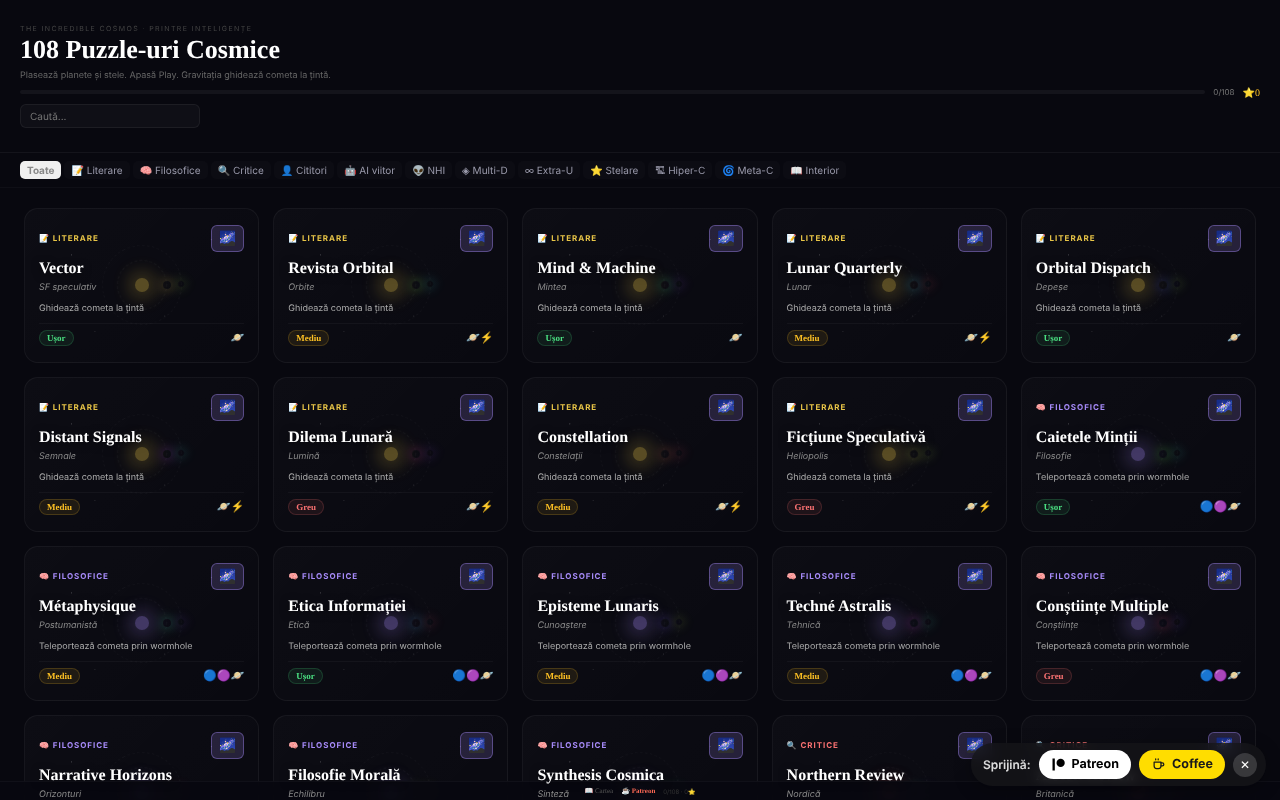
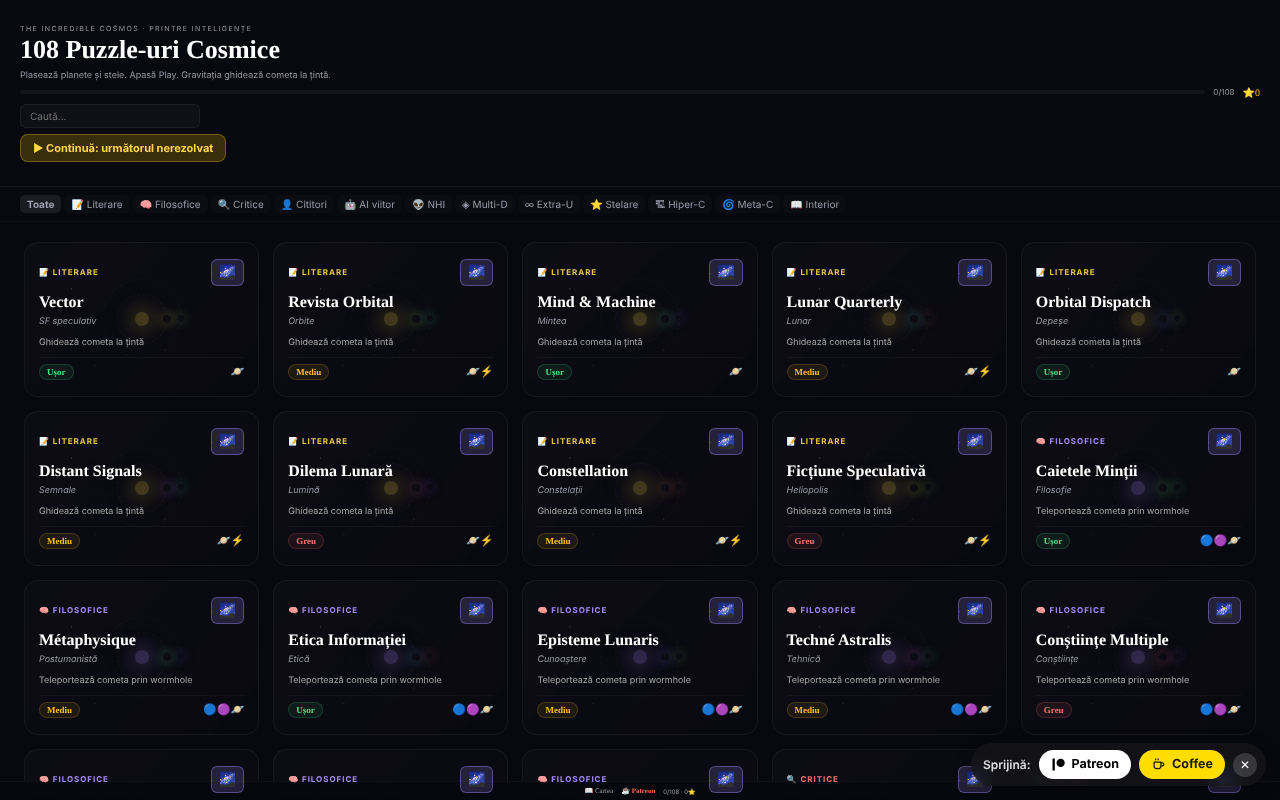
Runda 6 (11 octombrie 2026): reparații și îmbunătățiri
Claude-Session: https://claude.ai/code/session_01D2sCEb3hy3nutYexhUfQFs

diff --git a/index.html b/index.html
@@ -26,7 +26,7 @@
 /* Accesibilitate: inel de focus vizibil pentru navigare la tastatură. */
 :focus-visible{outline:2px solid #4a90d9;outline-offset:2px;border-radius:2px}
 </style>
-  <meta http-equiv="Content-Security-Policy" content="default-src 'self'; img-src 'self' data: blob:; style-src 'self' 'unsafe-inline'; font-src 'self' data:; media-src 'self' blob: data:; object-src 'none'; base-uri 'self'; form-action 'self'; worker-src 'self' blob:; script-src 'self' 'unsafe-inline' blob:; connect-src 'self'"><meta name="viewport" content="width=device-width,initial-scale=1"><title>The Incredible Cosmos</title><style>
+  <meta http-equiv="Content-Security-Policy" content="default-src 'self'; img-src 'self' data: blob:; style-src 'self' 'unsafe-inline'; font-src 'self' data:; media-src 'self' blob: data:; object-src 'none'; base-uri 'self'; form-action 'self'; worker-src 'self' blob:; script-src 'self' blob: 'sha256-ZOFLc0lAd79qelofwhNpkbrKvSsmJ8USXrQ/6auw2Po=' 'sha256-Q6M4enlkWNnw/gYyNhvQxfOCLzyhJkDqXTeBf3BySWw=' 'sha256-JNIyfYS8bOwUCGrqmslz9ykJlfjobv786OrrxMbOKgc=' 'sha256-TKvPfhZZ1qjsnftxDHkKW4lDyX5nY6e+GXPewp+Wo2s=' 'sha256-0OdRBjTvlRLcoHiFRaEKDmihFICKieERUl43/ALeH+A='; connect-src 'self'"><meta name="viewport" content="width=device-width,initial-scale=1"><title>The Incredible Cosmos</title><style>
 *{margin:0;padding:0;box-sizing:border-box;-webkit-tap-highlight-color:transparent}
 html,body{width:100%;min-height:100%;background:#06060e;font-family:Georgia,serif;color:#e0e0e0;overflow-x:hidden;overflow-y:auto;-webkit-overflow-scrolling:touch}
 #root{width:100%;min-height:100vh}button{font-family:inherit;border:none}input{font-family:inherit}
@@ -355,6 +355,9 @@ const {
   useCallback
 } = React;
 var TAU = Math.PI * 2;
+var clamp = function (v, a, b) {
+  return Math.max(a, Math.min(b, v));
+};
 var dst = function (a, b) {
   return Math.hypot(a.x - b.x, a.y - b.y);
 };
@@ -1292,6 +1295,12 @@ function App() {
     y: 0,
     on: false
   });
+  var kbRef = useRef({
+    on: false
+  });
+  var _an = useState(""),
+    ann = _an[0],
+    setAnn = _an[1];
   selTRef.current = selT;
   tcRef.current = tc;
   var starsRef = useRef(0);
@@ -1602,6 +1611,20 @@ function App() {
         }
       }
 
+      // Cursor de tastatură (săgeți + Enter)
+      if (!S.running && kbRef.current.on && m.on) {
+        ctx.save();
+        ctx.strokeStyle = "rgba(255,213,79,0.9)";
+        ctx.lineWidth = 1.5;
+        ctx.beginPath();
+        ctx.moveTo(m.x - 10, m.y);
+        ctx.lineTo(m.x + 10, m.y);
+        ctx.moveTo(m.x, m.y - 10);
+        ctx.lineTo(m.x, m.y + 10);
+        ctx.stroke();
+        ctx.restore();
+      }
+
       // Tap ripples
       S.taps = S.taps.filter(function (tap) {
         tap.life -= 0.03;
@@ -1659,7 +1682,7 @@ function App() {
       window.removeEventListener("resize", rsz);
     };
   }, [aid, pz, setupPz, simSpeed]);
-  var onPtrDown = useCallback(function (e) {
+  var onPtrDown = useCallback(function (e, kb) {
     var cv = cvRef.current;
     if (!cv) return;
     var S = stRef.current;
@@ -1673,7 +1696,7 @@ function App() {
     // Drag check first
     for (var i = S.objs.length - 1; i >= 0; i--) {
       var o = S.objs[i];
-      if (o.placed && o.alive && dst({
+      if (!kb && o.placed && o.alive && dst({
         x: wx,
         y: wy
       }, o) < o.r + 12) {
@@ -1726,6 +1749,7 @@ function App() {
         id: nid,
         type: curSel
       });
+      setAnn(tp.name + " plasat (" + S.placed + " obiecte folosite, mai rămân " + nc[curSel] + ")");
     }
   }, []);
   var onPtrMove = useCallback(function (e) {
@@ -1809,6 +1833,119 @@ function App() {
     };
   };
 
+  // Tastatură: P = Play, R = reset, U = anulează, 1–8 = alege obiect, săgeți + Enter pe ecran
+  useEffect(function () {
+    if (!aid || !pz || view3d) return;
+    var kd = function (ev) {
+      var tg = ev.target;
+      if (tg && (tg.tagName === "INPUT" || tg.tagName === "TEXTAREA" || tg.tagName === "SELECT")) return;
+      if (ev.ctrlKey || ev.metaKey || ev.altKey) return;
+      var k = ev.key,
+        S = stRef.current,
+        cv = cvRef.current;
+      if (!cv) return;
+      if (k === "p" || k === "P") {
+        if (phase === "build") {
+          ev.preventDefault();
+          S.running = true;
+          setPhase("play");
+          setAnn("Simulare pornită");
+        }
+        return;
+      }
+      if (k === "r" || k === "R") {
+        ev.preventDefault();
+        resetPz();
+        setAnn("Puzzle resetat");
+        return;
+      }
+      if (k === "u" || k === "U") {
+        if (phase === "build") {
+          ev.preventDefault();
+          undoLast();
+          setAnn("Ultimul obiect anulat");
+        }
+        return;
+      }
+      if (/^[1-8]$/.test(k) && phase === "build") {
+        var tl = pz.tools[+k - 1];
+        if (tl && (tc[tl.t] || 0) > 0) {
+          ev.preventDefault();
+          var on = selT !== tl.t;
+          setSelT(on ? tl.t : null);
+          setAnn(on ? TYPES[tl.t].name + " selectat" : "Selecție anulată");
+        }
+        return;
+      }
+      if (k === "Escape") {
+        if (selT) setSelT(null);
+        return;
+      }
+      if (document.activeElement !== cv || phase !== "build") return;
+      var arrows = {
+        ArrowLeft: [-1, 0],
+        ArrowRight: [1, 0],
+        ArrowUp: [0, -1],
+        ArrowDown: [0, 1]
+      };
+      if (arrows[k]) {
+        ev.preventDefault();
+        var m = mouseRef.current,
+          stp = ev.shiftKey ? 40 : 10,
+          mx = m.on ? m.x : cv.clientWidth / 2,
+          my = m.on ? m.y : cv.clientHeight / 2;
+        mouseRef.current = {
+          x: clamp(mx + arrows[k][0] * stp, 0, cv.clientWidth),
+          y: clamp(my + arrows[k][1] * stp, 0, cv.clientHeight),
+          on: true
+        };
+        return;
+      }
+      if (k === "Enter" || k === " ") {
+        ev.preventDefault();
+        var mm = mouseRef.current;
+        if (!selT) {
+          setAnn("Alege mai întâi un obiect (tastele 1–8)");
+          return;
+        }
+        if (!mm.on) mm = {
+          x: cv.clientWidth / 2,
+          y: cv.clientHeight / 2,
+          on: true
+        };
+        mouseRef.current = mm;
+        var rc = cv.getBoundingClientRect();
+        onPtrDown({
+          clientX: rc.left + mm.x,
+          clientY: rc.top + mm.y
+        }, true);
+      }
+    };
+    window.addEventListener("keydown", kd);
+    return function () {
+      window.removeEventListener("keydown", kd);
+    };
+  }, [aid, pz, view3d, phase, selT, tc]);
+  // Rezultat: anunț pentru cititoarele de ecran și salvare imediată a progresului
+  useEffect(function () {
+    if (!pz) return;
+    if (phase === "win") {
+      setAnn("Rezolvat! " + stars + " din 3 stele, " + placed + " obiecte folosite.");
+      var p = Object.assign({}, prog);
+      if (!p[pz.id] || stars > (p[pz.id].st || 0)) {
+        p[pz.id] = {
+          st: stars
+        };
+        setProg(p);
+        try {
+          window.storage.set("cosmos108", JSON.stringify(p));
+        } catch (e) {}
+      }
+    } else if (phase === "lose") {
+      setAnn("Cometa a fost pierdută. Apasă R sau ↻ pentru a reîncerca.");
+    }
+  }, [phase, stars]);
+
   // ═══ 3D UNIVERSE VIEW ═══
   if (view3d) {
     return /*#__PURE__*/React.createElement(Universe3D, {
@@ -1850,7 +1987,18 @@ function App() {
         zIndex: 2,
         background: "transparent"
       },
-      onPointerDown: onPtrDown,
+      tabIndex: 0,
+      role: "application",
+      "aria-label": "Câmp de joc. Săgeți: mută cursorul (Shift = pas mare). Enter sau Spațiu: plasează obiectul selectat. Taste 1–8: alege obiectul. P: Play. U: anulează. R: reset.",
+      onFocus: function () {
+        kbRef.current.on = true;
+      },
+      onBlur: function () {
+        kbRef.current.on = false;
+      },
+      onPointerDown: function (e) {
+        onPtrDown(e);
+      },
       onPointerMove: onPtrMove,
       onPointerUp: onPtrUp,
       onPointerLeave: onPtrLeave
@@ -1898,7 +2046,11 @@ function App() {
         color: "#ffd54f",
         fontWeight: 700
       }
-    }, "▶ PLAY"), /*#__PURE__*/React.createElement("br", null), "6. Cometa → 🎯 = Victorie!"), /*#__PURE__*/React.createElement("div", {
+    }, "▶ PLAY"), /*#__PURE__*/React.createElement("br", null), "6. Cometa → 🎯 = Victorie!", /*#__PURE__*/React.createElement("br", null), /*#__PURE__*/React.createElement("span", {
+      style: {
+        color: "#9a9aa8"
+      }
+    }, "Tastatură: Tab pe ecran, săgeți + Enter, 1–8, P, U, R")), /*#__PURE__*/React.createElement("div", {
       style: {
         fontSize: 9,
         color: "#9a9aa8",
@@ -1912,6 +2064,17 @@ function App() {
         color: "#fbbf24"
       }
     }, "Apas\u0103 pentru a \xEEnchide"))), /*#__PURE__*/React.createElement("div", {
+      role: "status",
+      "aria-live": "polite",
+      style: {
+        position: "absolute",
+        width: 1,
+        height: 1,
+        overflow: "hidden",
+        clip: "rect(0 0 0 0)",
+        whiteSpace: "nowrap"
+      }
+    }, ann), /*#__PURE__*/React.createElement("div", {
       style: {
         position: "absolute",
         top: 0,
@@ -2242,7 +2405,34 @@ function App() {
       width: mob ? "100%" : 180,
       fontFamily: "system-ui"
     }
-  })), /*#__PURE__*/React.createElement("div", {
+  }), /*#__PURE__*/React.createElement("div", {
+    style: {
+      display: "flex",
+      gap: 6,
+      marginTop: 6,
+      flexWrap: "wrap"
+    }
+  }, PZ.some(function (p) {
+    return !prog[p.id];
+  }) && /*#__PURE__*/React.createElement("button", {
+    onClick: function () {
+      var nx = PZ.find(function (p) {
+        return !prog[p.id];
+      });
+      if (nx) setAid(nx.id);
+    },
+    style: btnS(true)
+  }, "▶ Continuă: următorul nerezolvat"), exp > 0 && /*#__PURE__*/React.createElement("button", {
+    onClick: function () {
+      if (window.confirm("Ștergi tot progresul (stelele câștigate) de pe acest dispozitiv?")) {
+        setProg({});
+        try {
+          window.storage.set("cosmos108", "{}");
+        } catch (e) {}
+      }
+    },
+    style: btnS()
+  }, "Șterge progresul"))), /*#__PURE__*/React.createElement("div", {
     style: {
       display: "flex",
       gap: 3,

diff --git a/README.md b/README.md
@@ -20,6 +20,8 @@ Un joc de puzzle bazat pe gravitație: plasezi planete, stele și alte obiecte a
 - Simulare cu butoane **▶ PLAY**, viteze 0,5×/1×/2×/4×, **↩** (anulare) și **↻** (reset); traiectoria cometei apare ca linie punctată.
 - Stele de evaluare: mai puține obiecte folosite înseamnă mai multe stele; cel mai bun rezultat per puzzle este salvat.
 - Butonul **Univers 3D** al fiecărui puzzle deschide o vedere 3D procedurală (Three.js), rotită cu mouse-ul sau degetul, cu zoom din rotița mouse-ului.
+- **Tastatură:** `Tab` pe ecranul de joc, săgeți (Shift = pas mare) mută un cursor, `Enter`/`Spațiu` plasează obiectul selectat, `1`–`8` aleg obiectul, `P` = Play, `U` = anulează, `R` = reset; rezultatele și acțiunile sunt anunțate pentru cititoarele de ecran (regiune `aria-live`).
+- Galeria: „▶ Continuă: următorul nerezolvat” și „Șterge progresul” (cu confirmare); stelele se salvează imediat ce rezolvi puzzle-ul.
 - Link „📖 Cartea” către alexio.tf și linkuri de sprijin (Patreon, Buy Me a Coffee).
 
 ## Manual de utilizare
@@ -35,7 +37,7 @@ Un joc de puzzle bazat pe gravitație: plasezi planete, stele și alte obiecte a
 ## Confidențialitate și rețea
 
 - **Stocare locală (localStorage):** o singură cheie, `cosmos108`, cu stelele câștigate la fiecare puzzle. Nu părăsește dispozitivul.
-- **Rețea:** React 18 și Three.js r128 sunt incluse în fișier (fără CDN). Aplicația nu face cereri către servere terțe și nu are analytics. Linkurile către alexio.tf, Patreon și Buy Me a Coffee se deschid doar la clic. Politica CSP a paginii restricționează conexiunile la `connect-src 'self'` (strâns în auditul din runda 2, după verificarea codului: nicio cerere către exterior); linkurile externe sunt simple ancore.
+- **Rețea:** React 18 și Three.js r128 sunt incluse în fișier (fără CDN). Aplicația nu face cereri către servere terțe și nu are analytics. Linkurile către alexio.tf, Patreon și Buy Me a Coffee se deschid doar la clic. Politica CSP a paginii permite scripturile doar pe bază de hash SHA-256 (fără `'unsafe-inline'` pentru script) și restricționează conexiunile la `connect-src 'self'` (strâns în auditul din runda 2, după verificarea codului: nicio cerere către exterior); linkurile externe sunt simple ancore.
 
 ## Rulare locală / offline
 
@@ -50,6 +52,11 @@ CC0 1.0 Universal (domeniu public) — vezi fișierul LICENSE.
 Audit: 2026-10-10 — verificat în cod: singurele apariții de `fetch`/`XMLHttpRequest` sunt în încărcătoarele (loaders) nefolosite din Three.js r128; codul aplicației nu apelează nicio resursă externă. Corecturi de contrast și un bug de stil la butonul „Toate”.
 
 ## Istoric / Changelog
+
+### 11 octombrie 2026 (runda 6)
+- Adăugat: joc de la tastatură (cursor cu săgeți, taste rapide), anunțuri `aria-live`, „Continuă” și „Șterge progresul” în galerie; progresul se salvează la câștig, nu doar la părăsirea puzzle-ului.
+- Securitate: CSP cu `script-src` pe hash (5 scripturi) în locul `'unsafe-inline'`.
+- Neschimbat: cele 108 puzzle-uri rămân variații pe aceleași mecanici (decizie de conținut a autorului).
 
 ### 11 octombrie 2026
 - Reparat: fundalul 3D nu mai afișează pătrate granulate; particulele (stele, nebuloase) folosesc acum un sprite circular moale generat local.
